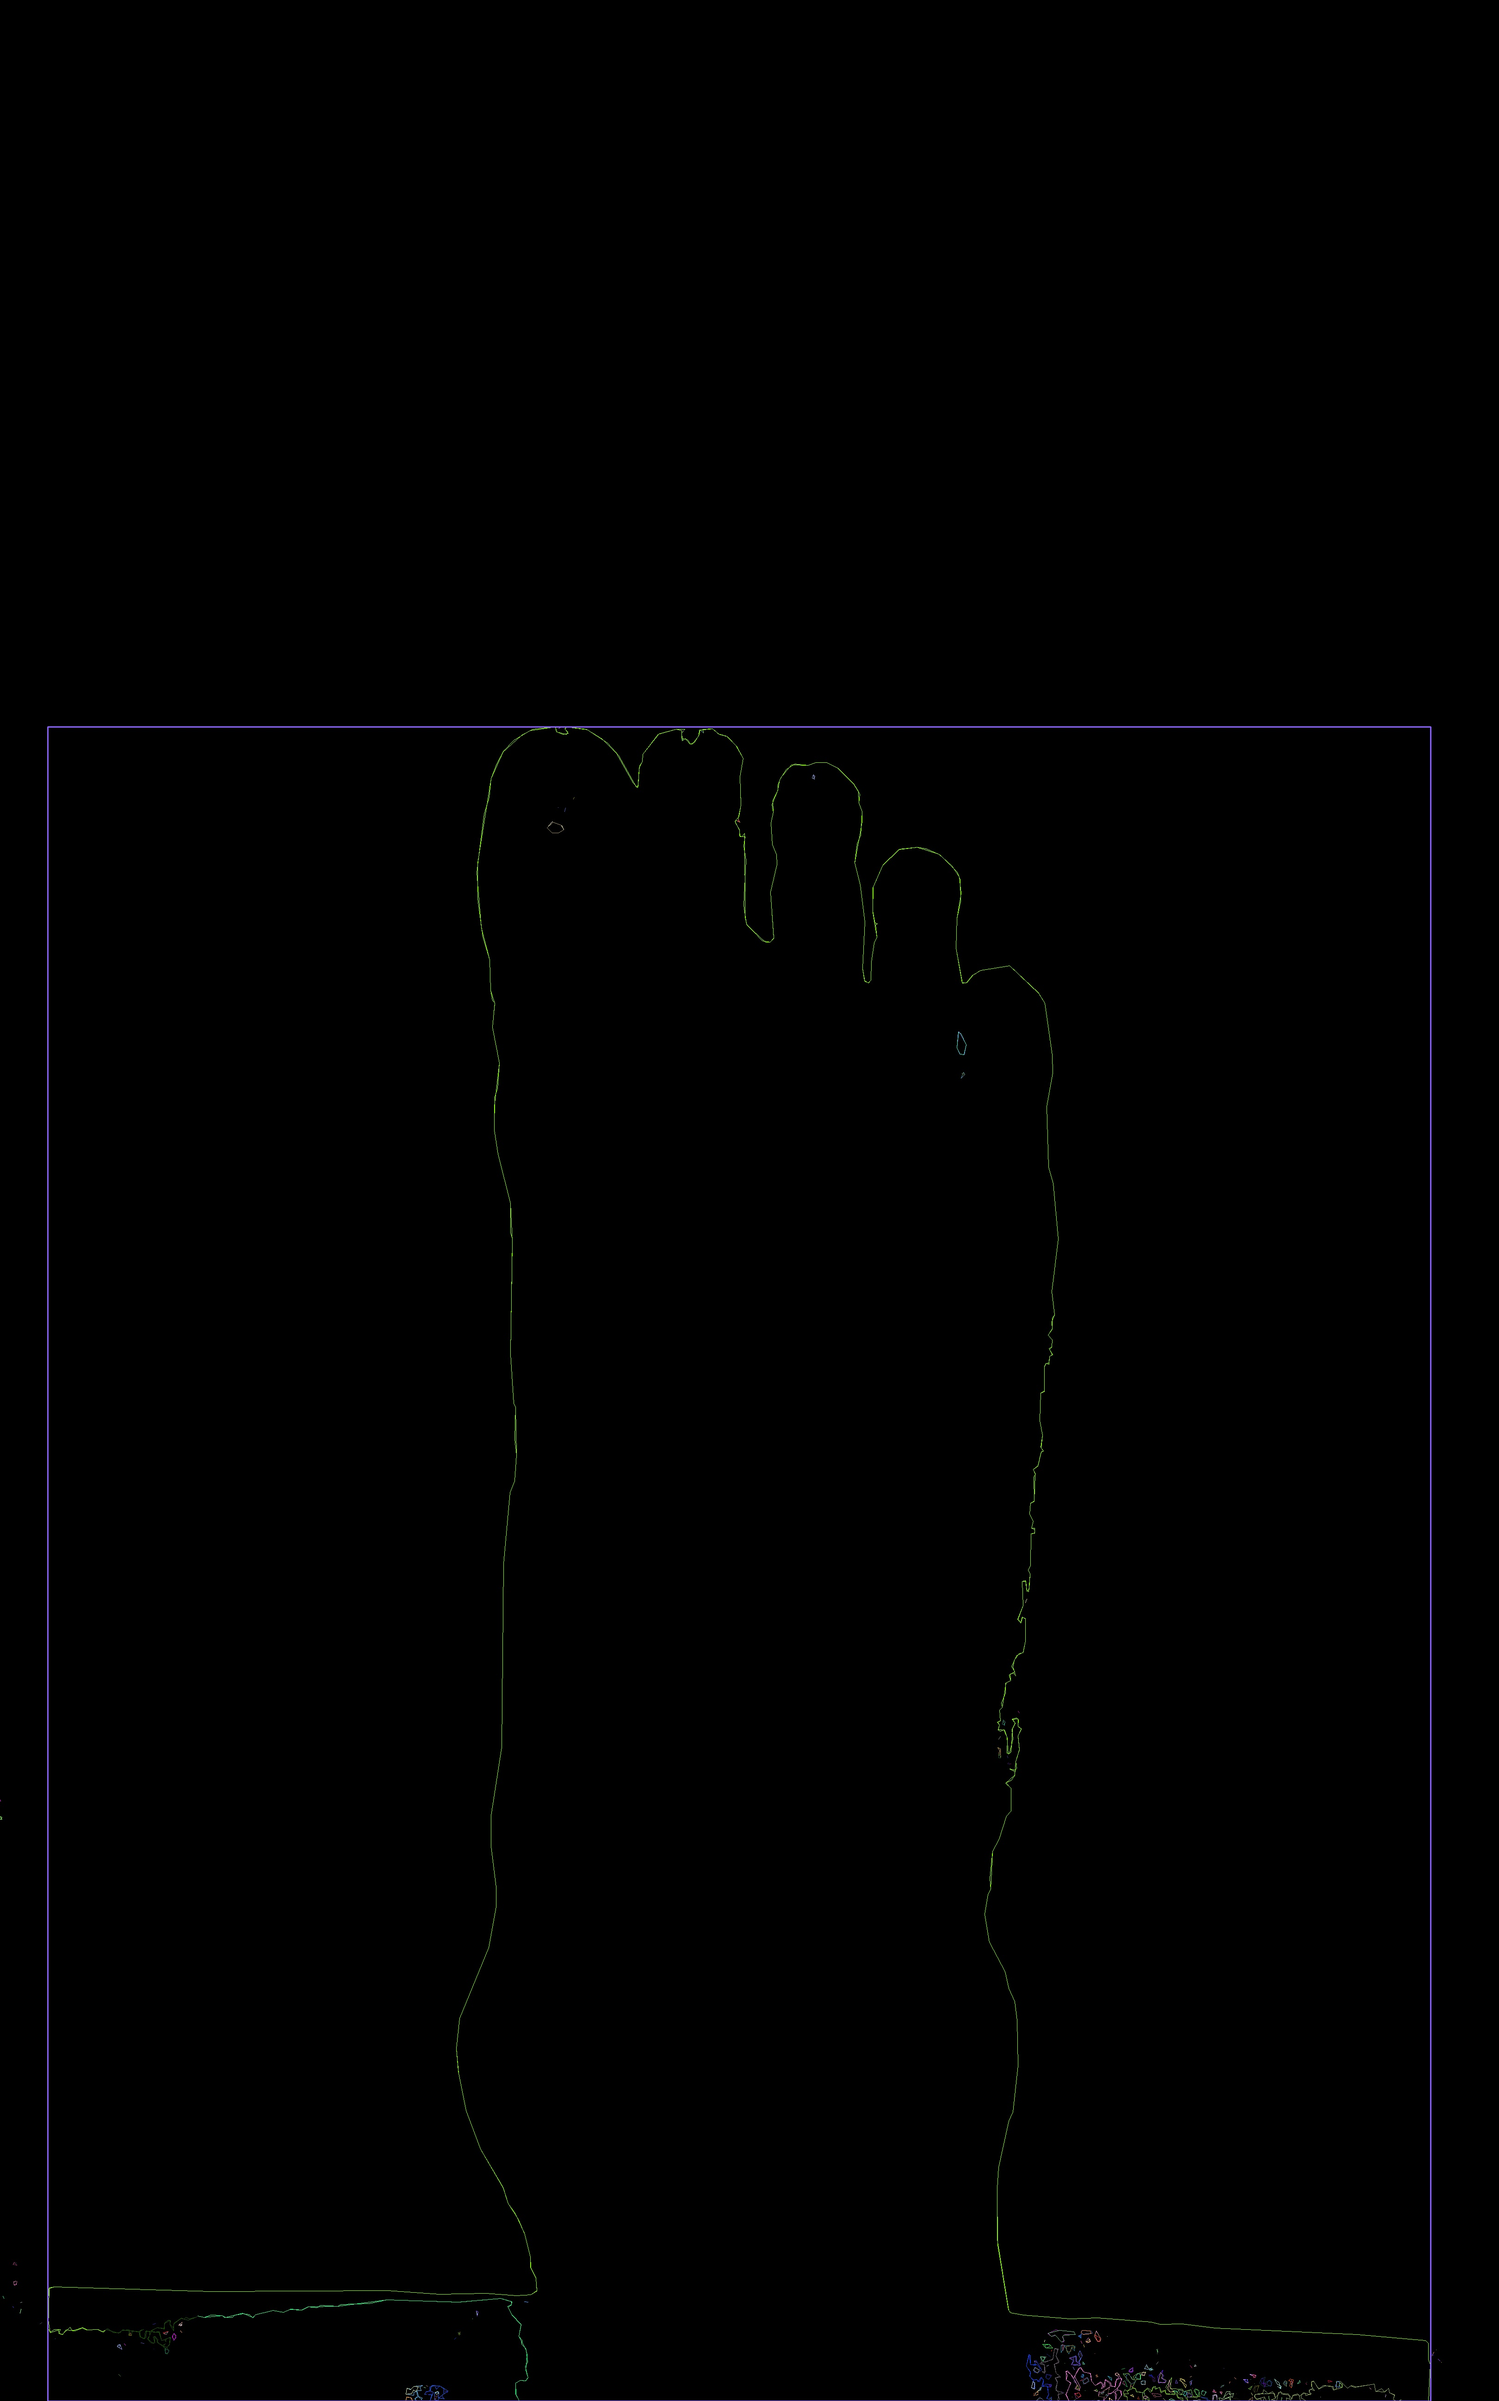
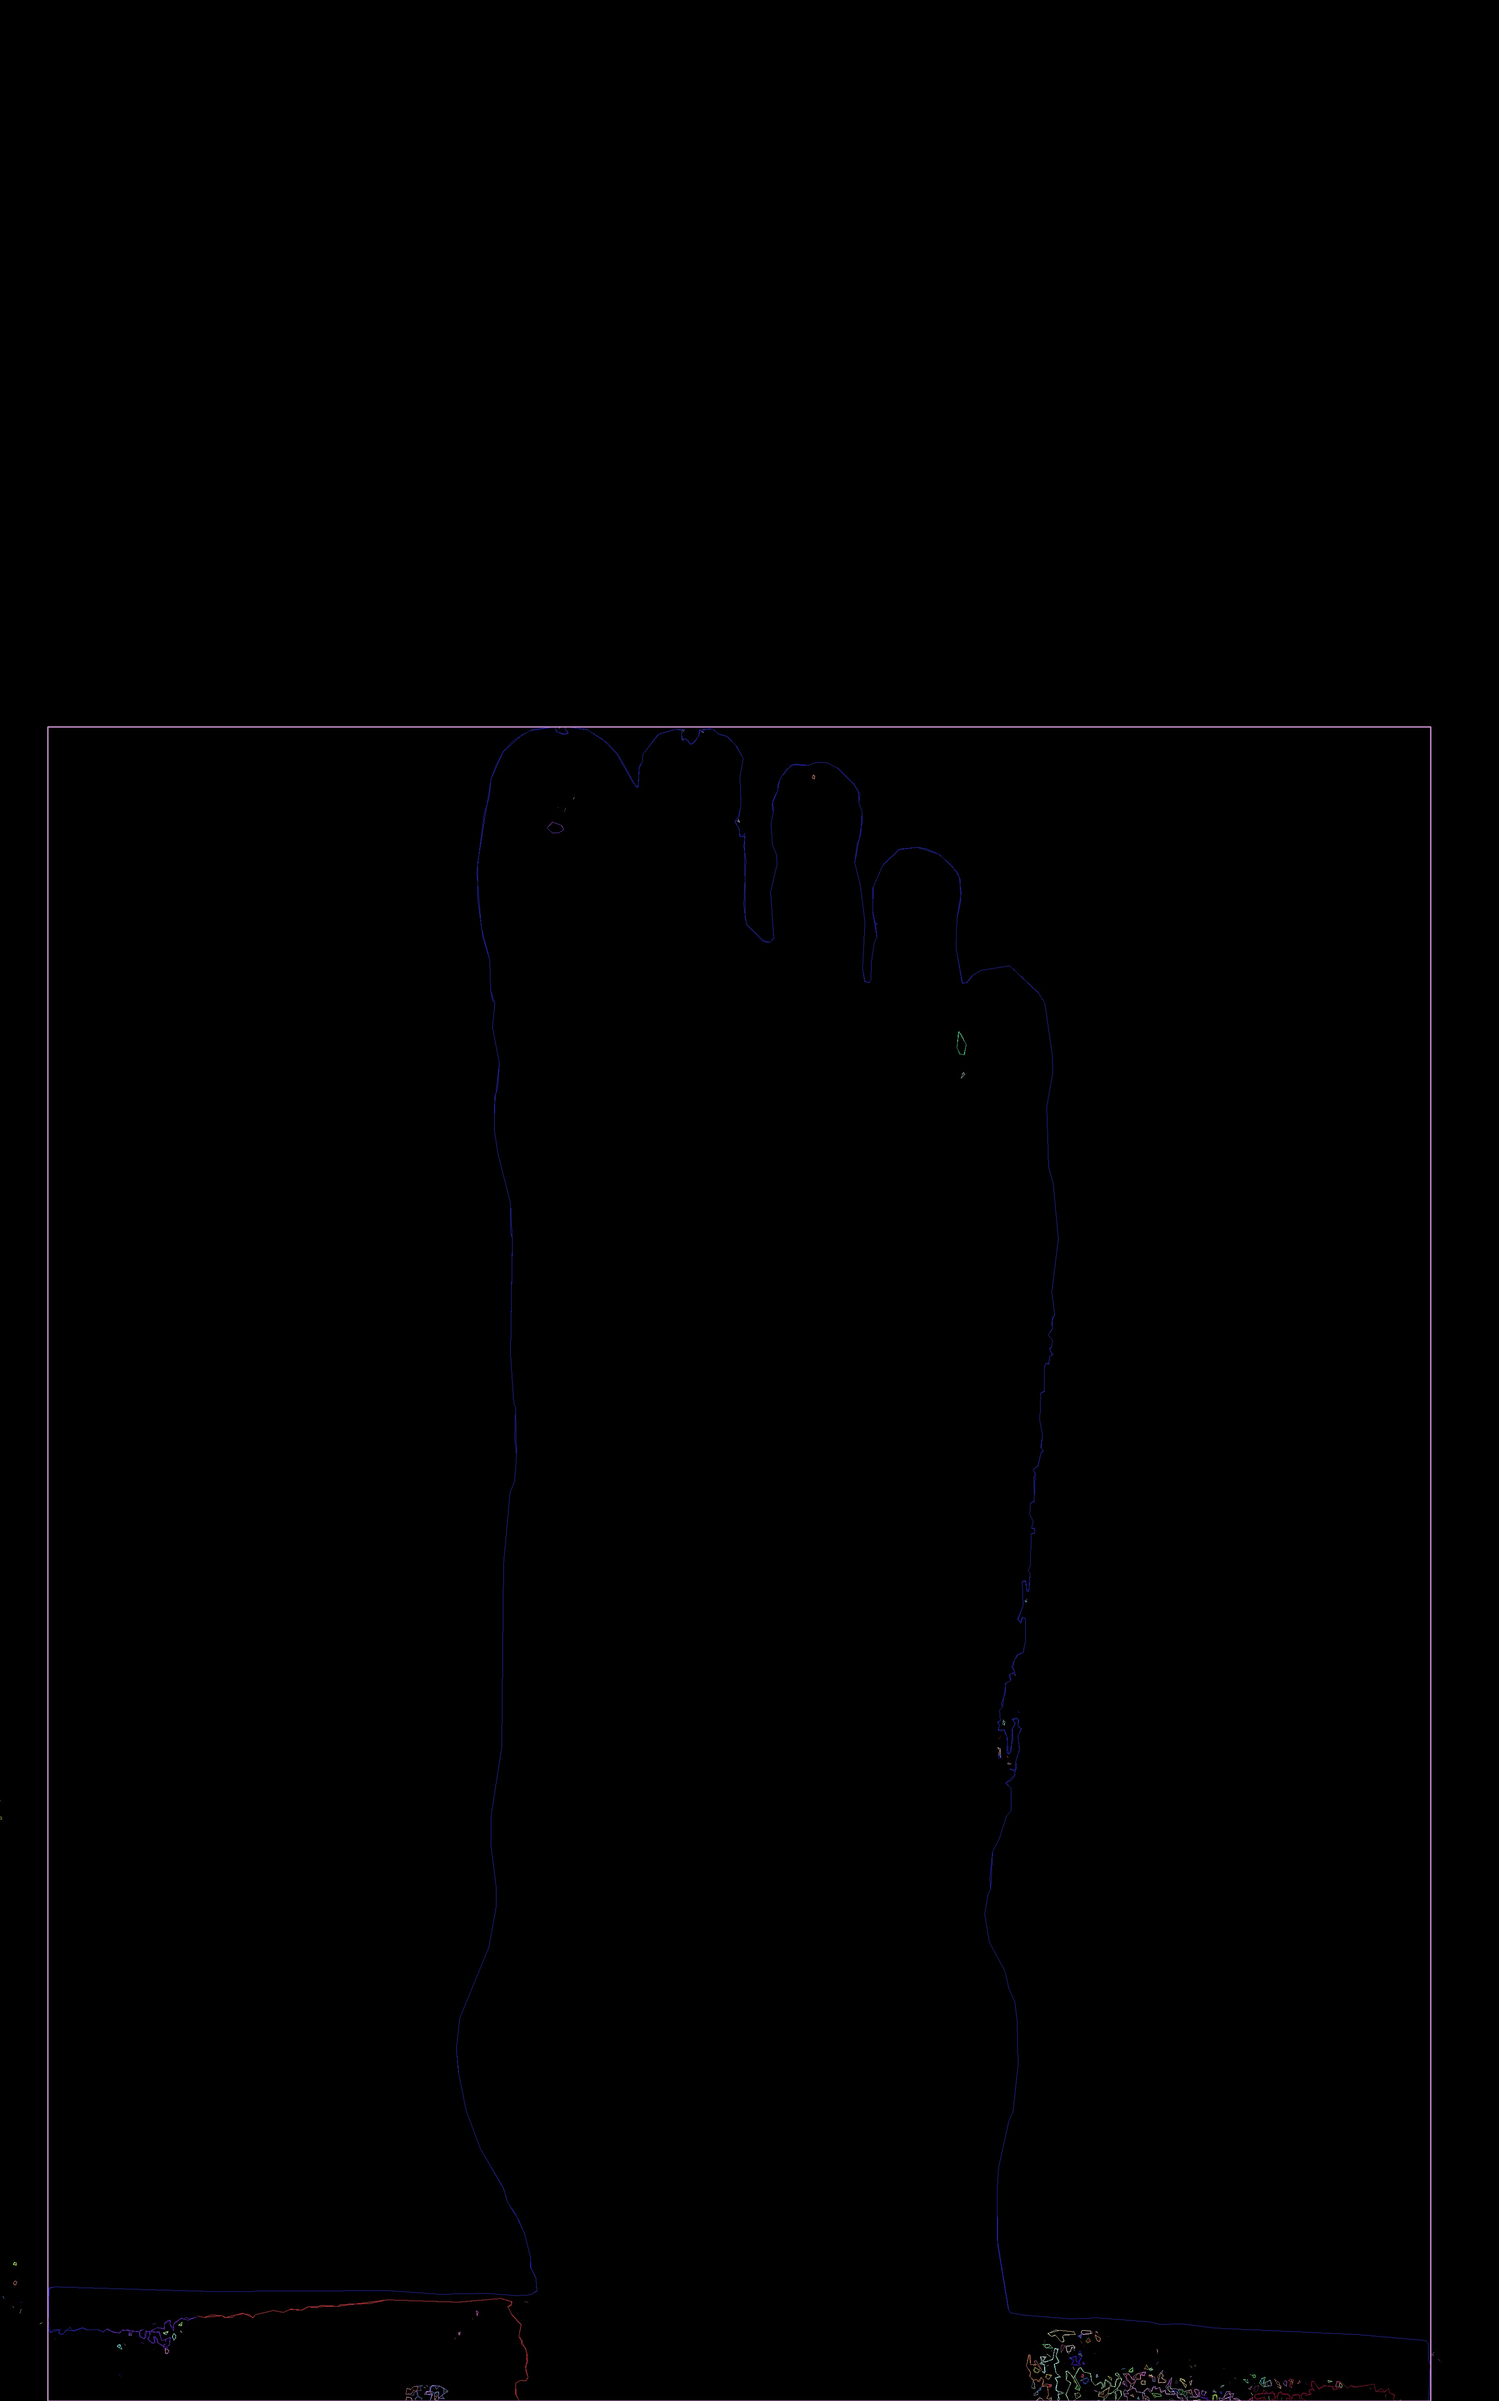
add calcFeetSize

Changed region(s): [[0.0312, 0.9682, 0.9664, 1.0]]

diff --git a/utils.py b/utils.py
@@ -69,3 +69,30 @@ def cropOrig(bRect, oimg):
     ix, iy, iw, ih = x+x2, y+y2, crop1.shape[1], crop1.shape[0]
     croppedImg = oimg[iy:iy+ih,ix:ix+iw]
     return croppedImg, pcropedImg
+
+
+def overlayImage(croppedImg, pcropedImg):
+    x1, y1, w1, h1 = 0, 0, pcropedImg.shape[1], pcropedImg.shape[0]
+    y2 = int(h1/10)
+    x2 = int(w1/10)
+    new_image = np.zeros((pcropedImg.shape[0], pcropedImg.shape[1], 3), np.uint8)
+    new_image[:, 0:pcropedImg.shape[1]] = (255, 0, 0) # (B, G, R)
+    new_image[ y1+y2:y1+y2+croppedImg.shape[0], x1+x2:x1+x2+croppedImg.shape[1]] = croppedImg
+    return new_image
+
+def calcFeetSize(pcropedImg, fboundRect):
+  x1, y1, w1, h1 = 0, 0, pcropedImg.shape[1], pcropedImg.shape[0]
+  y2 = int(h1/10)
+  x2 = int(w1/10)
+  fh = y2 + fboundRect[2][3]
+  fw = x2 + fboundRect[2][2]
+  ph = pcropedImg.shape[0]
+  pw = pcropedImg.shape[1]
+  opw = 210
+  oph = 297
+  ofs = 0.0
+  if fw>fh:
+    ofs = (opw/pw)*fw
+  else :
+    ofs = (oph/ph)*fh
+  return ofs

diff --git a/main.py b/main.py
@@ -31,6 +31,15 @@ def main():
     croppedImg, pcropedImg = cropOrig(boundRect[1], clusteredImg)
     cv2.imwrite('output/croppedImg.jpg', croppedImg)    
 
+    newImg = overlayImage(croppedImg, pcropedImg)
+    cv2.imwrite('output/newImg.jpg', newImg)
+
+    fedged = edgeDetection(newImg)
+    fboundRect, fcnt, fcntpoly, fimg = getBoundingBox(fedged)
+    fdraw = drawCnt(fboundRect[2], fcnt, fcntpoly, fimg)
+    cv2.imwrite('output/fdraw.jpg', fdraw)
+
+    print("feet size (cm): ", calcFeetSize(pcropedImg, fboundRect)/10)
 
 if __name__ == '__main__':
     main()
